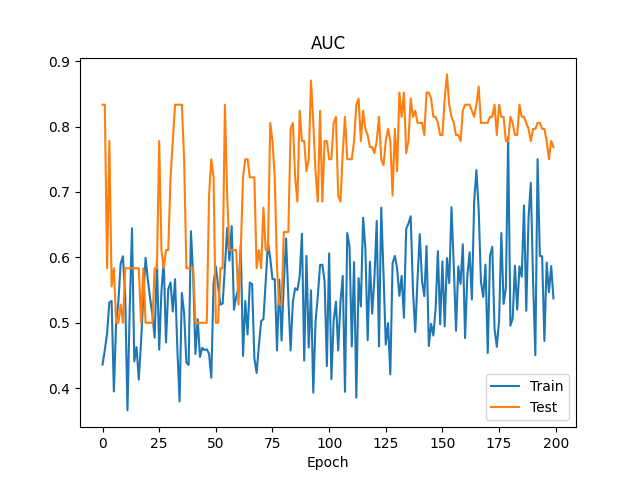
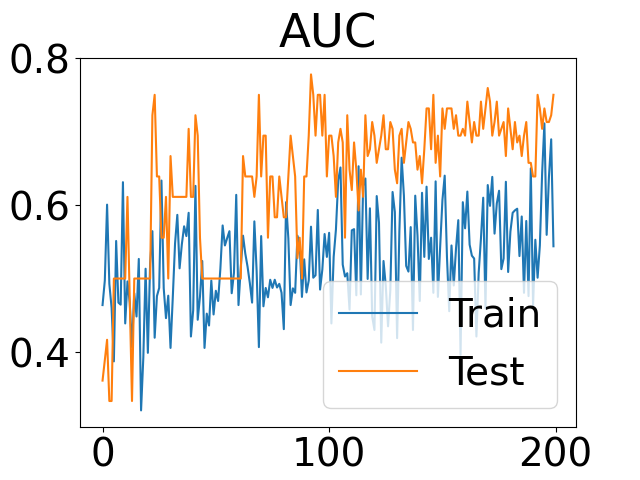
Just updating the repo to download and store the files

diff --git a/ML_models_L1O_justtraing.py b/ML_models_L1O_justtraing.py
@@ -42,14 +42,14 @@ def save_print_metrics(df, rates, model_name):
 
 
 OUTPUT_DIR = "./output_ML/MD/JustTraining/"
-FILENAME = 'MDindiv_0p05'
+FILENAME = 'MDdual_0p05'
 tn = fp = tp = fn = 0
 
-path = "C:/Users/imano/Desktop/MU/PBL/PBL-NEUROMOD/Voxel_metrics/MD_indiv.csv"
+path = "C:/Users/imano/Desktop/MU/PBL/PBL-NEUROMOD/Voxel_metrics/MD_dual.csv"
 df = pd.read_csv(path, encoding='latin1', delimiter=',')
 
 # Just to use a subgroup
-my_file = open("C:/Users/imano/Desktop/MU/PBL/PBL-NEUROMOD/Voxel_metrics/MD_indiv_regs_FDR_0p05.txt", "r")
+my_file = open("C:/Users/imano/Desktop/MU/PBL/PBL-NEUROMOD/Voxel_metrics/MD_dual_regs_FDR_0p05.txt", "r")
 content = my_file.read()
 subgroup = content.split("\n")
 new_list = [s.replace('"', '') for s in subgroup]

diff --git a/MultiLayer_Perceptron_model.py b/MultiLayer_Perceptron_model.py
@@ -8,6 +8,7 @@ from sklearn.model_selection import train_test_split
 from imblearn.combine import SMOTETomek
 import matplotlib.pyplot as plt
 from datetime import datetime
+import matplotlib
 
 
 def mlp_model(parameters, x_train, y_train):
@@ -113,14 +114,14 @@ print(f"Loss: {loss}\n"
       f"Recall: {rec}\n")
 print("----------------------------------------------------------")
 
+matplotlib.rcParams.update({'font.size': 28})
 plt.figure()
 plt.plot(history.history['loss'])
 plt.plot(history.history['val_loss'])
-plt.title('Loss')
+plt.title('MLP loss function')
 plt.xlabel('Epoch')
 plt.legend(['Train', 'Test'], loc='best')
 plt.savefig(output_dir + 'loss')
-plt.show()
 
 plt.figure()
 plt.plot(history.history['auc'])
